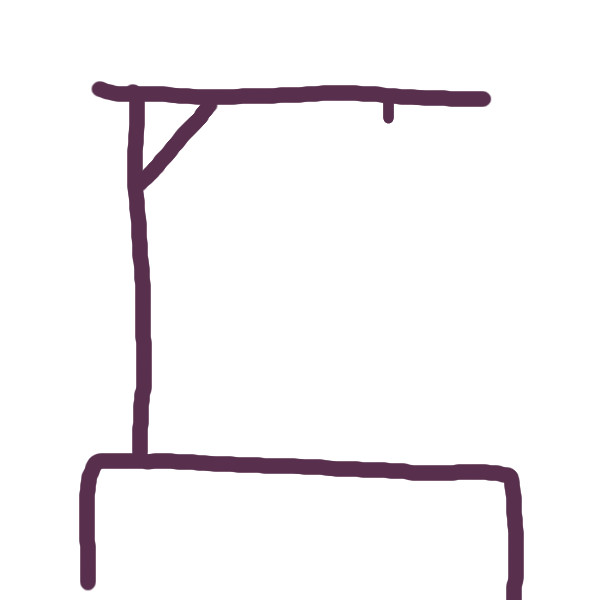
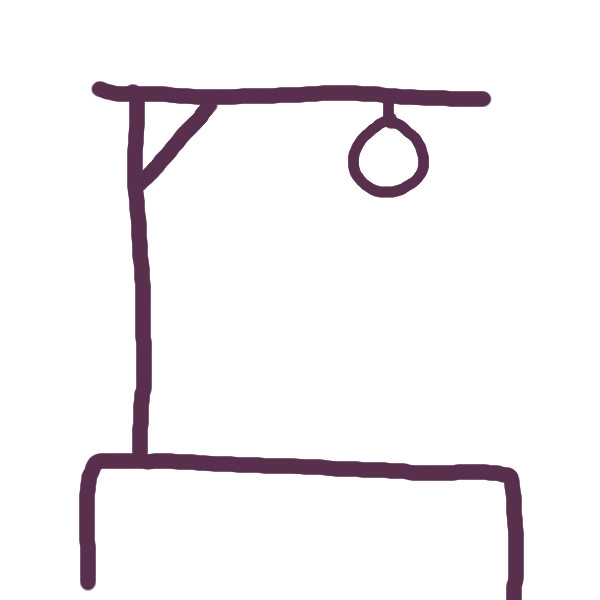
hangman is functional!

Changed region(s): [[0.57, 0.18, 0.72, 0.33]]

diff --git a/src/App.js b/src/App.js
@@ -1,20 +1,58 @@
 import React, { Component } from 'react';
 import './App.css';
 import Input from './components/Input';
+import Image from './components/Image';
+import Letters from './components/Letters';
+import Response from './components/Response';
+import Button from './components/Button';
 
 class App extends Component {
   state = {
-    goalWord:''
+    goalWord: '',
+    correctGuesses: [],
+    incorrectGuesses: []
   }
 
   render() {
     return (
       <div className="App">
         <h1 className="App-title">Hangman</h1>
-        <Input />
+        {this.state.goalWord.length === 0 && <Input setGoalWord={this.setGoalWord} correctGuesses={this.state.correctGuesses} />}
+        <Image incorrectGuesses={this.state.incorrectGuesses} />
+        <Response goalWord={this.state.goalWord} correctGuesses={this.state.correctGuesses} />
+        <Letters makeGuess={this.makeGuess} incorrectGuesses={this.state.incorrectGuesses} />
+        <Button refreshBoard={this.refreshBoard} />
       </div>
     );
   }
+
+  setGoalWord = (goalWord) => {
+    this.setState({
+      goalWord: goalWord
+    })
+  }
+
+  makeGuess = (guess) => {
+    if (this.state.goalWord.split('').includes(guess)) {
+      this.setState({
+        correctGuesses: this.state.correctGuesses.concat(guess)
+      })
+    } else {
+      this.setState({
+        incorrectGuesses: this.state.incorrectGuesses.concat(guess.toUpperCase())
+      })
+    }
+  }
+
+  refreshBoard = () => {
+    this.setState({
+      goalWord: '',
+      correctGuesses: [],
+      incorrectGuesses: []
+    })
+  }
+
+
 }
 
 export default App;

diff --git a/src/components/Letters.jsx b/src/components/Letters.jsx
@@ -1,0 +1,31 @@
+import React from 'react'
+import PropTypes from 'prop-types'
+
+const alphabet = ['A', 'B', 'C', 'D', 'E', 'F', 'G', 'H', 'I', 'J', 'K', 'L', 'M', 'N', 'O', 'P', 'Q', 'R', 'S', 'T', 'U', 'V', 'W', 'X', 'Y', 'Z'];
+
+const Letters = ({ makeGuess, incorrectGuesses }) => {
+    const style = {
+
+    }
+    // const incorrectStyle = { textDecoration: "line-through" }
+
+    return (
+        <div className="letters_box">
+            {alphabet.map(ltr => {
+                const correct = incorrectGuesses.includes(ltr) ? true : false;
+                if (!correct) {
+                    return <button className="letter_button" style={style} id={ltr} onClick={() => makeGuess(ltr)}>{ltr}</button>
+                } else {
+                    return <button className="letter_button" style={{ ...style, textDecoration: "line-through" }} id={ltr} onClick={makeGuess}>{ltr}</button>
+                }
+            })}
+        </div>
+    )
+}
+
+Letters.propTypes = {
+
+}
+
+export default Letters
+

diff --git a/src/components/Image.jsx b/src/components/Image.jsx
@@ -1,0 +1,35 @@
+import React, { Component } from 'react'
+import PropTypes from 'prop-types'
+import image0 from '../images/0.jpg'
+import image1 from '../images/1.jpg'
+import image2 from '../images/2.jpg'
+import image3 from '../images/3.jpg'
+import image4 from '../images/4.jpg'
+import image5 from '../images/5.jpg'
+import image6 from '../images/6.jpg'
+import image7 from '../images/7.jpg'
+
+const lookupObj = {
+    0: image0,
+    1: image1,
+    2: image2,
+    3: image3,
+    4: image4,
+    5: image5,
+    6: image6,
+    7: image7
+}
+
+export default class Image extends Component {
+    static propTypes = {
+        prop: PropTypes
+    }
+
+    render() {
+        return (
+            <div>
+                <img src={lookupObj[this.props.incorrectGuesses.length]} alt="hangman" height="350px" width="350px" />
+            </div>
+        )
+    }
+}

diff --git a/src/components/Input.jsx b/src/components/Input.jsx
@@ -2,21 +2,27 @@ import React, { Component } from 'react';
 
 class Input extends Component {
   state = {
-    currentText: "" 
+    currentText: ""
   }
-   
-  render () {
+
+  render() {
     return (
-    <form>
-     <input type="text" onChange={this.handleChange}></input>
-    </form>
+      <form onSubmit={this.handleSubmit}>
+        <input type="text" value={this.state.currentText} onChange={this.handleChange}></input><button >Play</button>
+      </form>
     )
   }
 
   handleChange = (event) => {
-    this.setState = {
+    this.setState({
       currentText: event.target.value
-    }
+    })
+  }
+
+  handleSubmit = (event) => {
+    event.preventDefault();
+    this.props.setGoalWord(this.state.currentText.toUpperCase());
+    this.setState({ currentText: "" })
   }
 }
 

diff --git a/src/App.css b/src/App.css
@@ -1,28 +1,15 @@
 .App {
-  text-align: center;
+    text-align: center;
 }
 
-.App-logo {
-  animation: App-logo-spin infinite 20s linear;
-  height: 80px;
+.response {
+    margin: 20px;
+    font-size: 50px;
 }
 
-.App-header {
-  background-color: #222;
-  height: 150px;
-  padding: 20px;
-  color: white;
-}
-
-.App-title {
-  font-size: 1.5em;
-}
-
-.App-intro {
-  font-size: large;
-}
-
-@keyframes App-logo-spin {
-  from { transform: rotate(0deg); }
-  to { transform: rotate(360deg); }
+.letters_box {
+    display: inline-grid;
+    grid-template-columns: repeat(9, 1fr);
+    align-content: center;
+    margin: 10px;
 }

diff --git a/public/index.html b/public/index.html
@@ -10,6 +10,7 @@
     -->
     <link rel="manifest" href="%PUBLIC_URL%/manifest.json">
     <link rel="shortcut icon" href="%PUBLIC_URL%/favicon.ico">
+    <link rel="stylesheet" href="../src/App.css"
     <!--
       Notice the use of %PUBLIC_URL% in the tags above.
       It will be replaced with the URL of the `public` folder during the build.

diff --git a/src/components/Response.jsx b/src/components/Response.jsx
@@ -1,0 +1,12 @@
+import React from 'react'
+
+export default ({ correctGuesses, goalWord }) => {
+    return (
+        <div className='response'>
+            {goalWord.split('').map((ltr) => {
+                if (correctGuesses.includes(ltr)) return ltr;
+                else return '_ ';
+            })}
+        </div>
+    )
+}

diff --git a/src/components/Button.jsx b/src/components/Button.jsx
@@ -1,0 +1,9 @@
+import React from 'react'
+
+export default ({ refreshBoard }) => {
+    return (
+        <div>
+            <button onClick={refreshBoard}>Refresh</button>
+        </div>
+    )
+}
